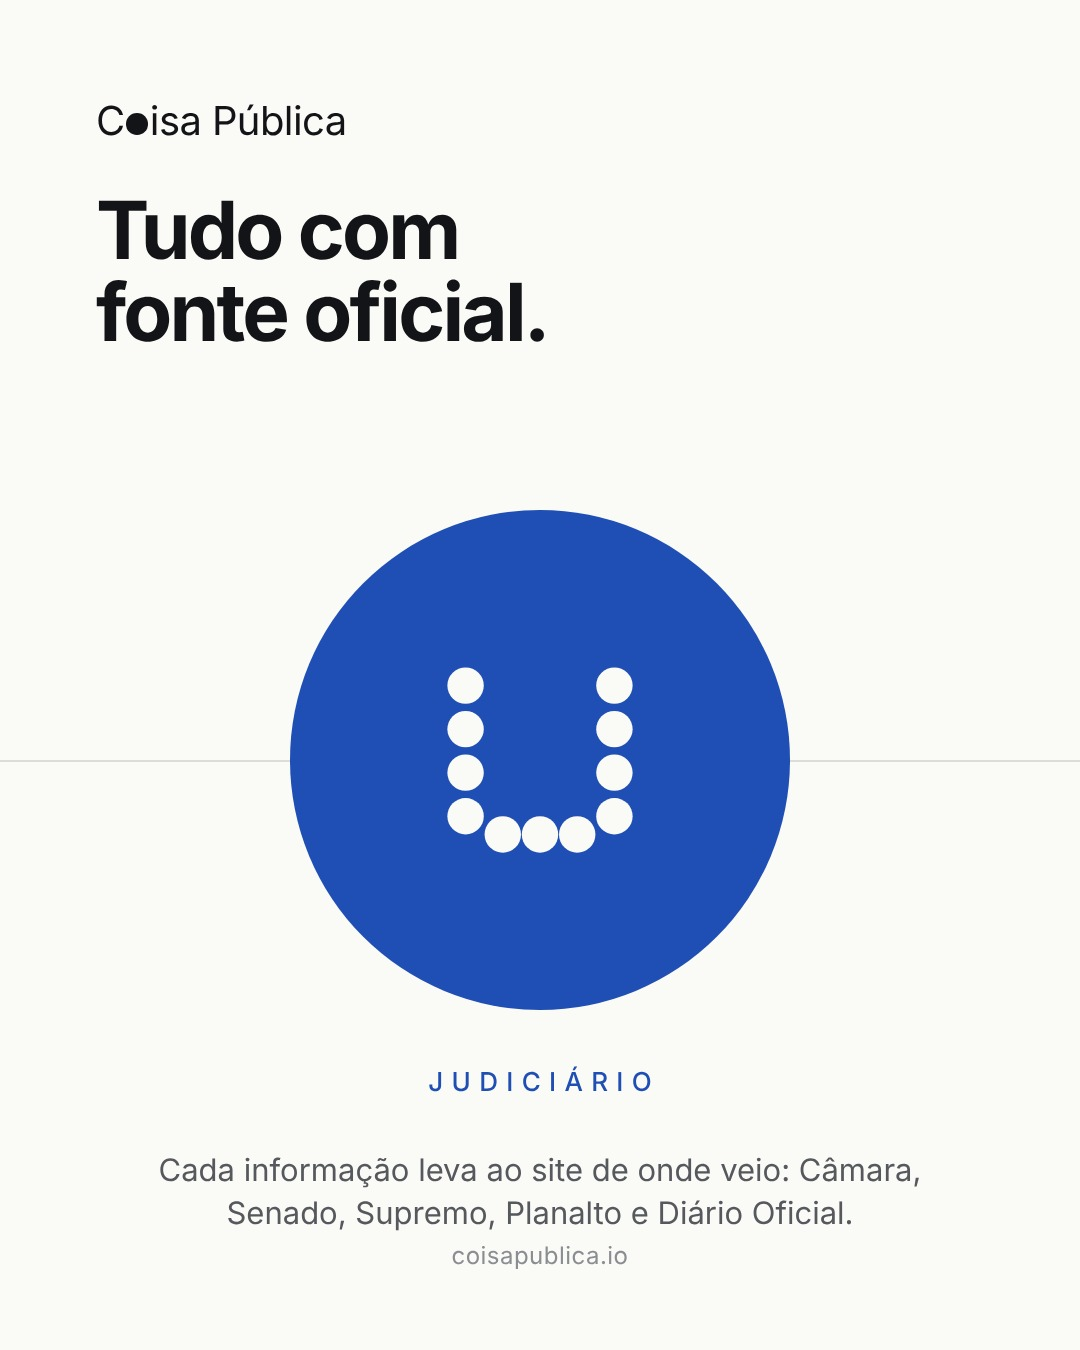
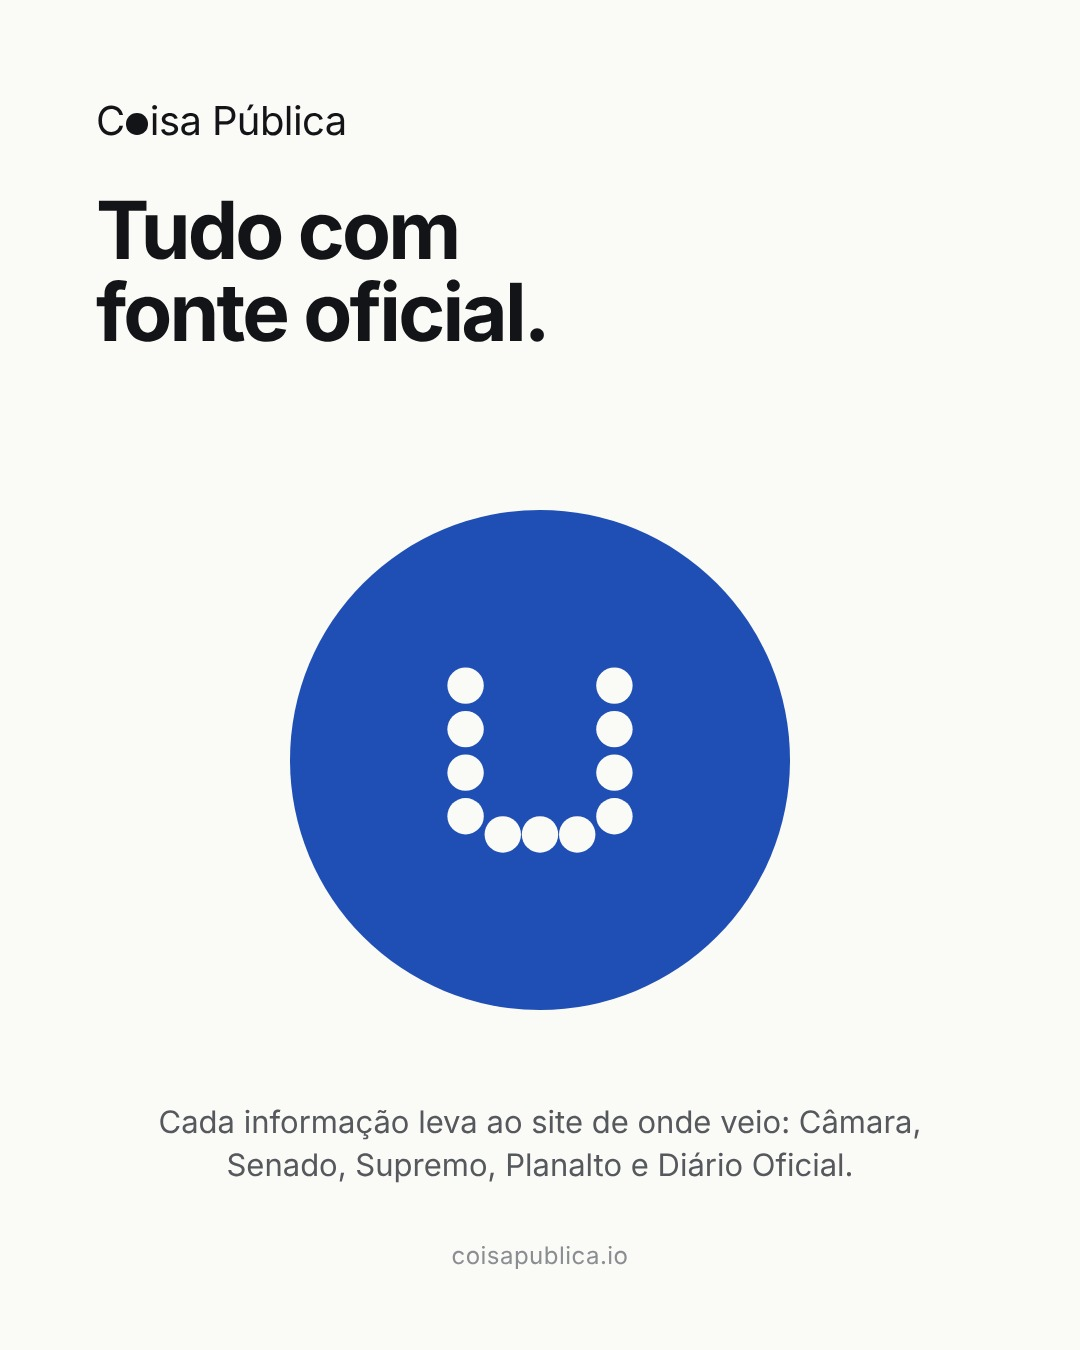
Apresentação: sem os nomes dos poderes e sem a linha; pontos do Legislativo à mesma distância
Claude-Session: https://claude.ai/code/session_01LhzKyHvExJb3TPhqkvRYrY

Changed region(s): [[0.1528, 0.7778, 0.8556, 0.9022]]

diff --git a/scripts/posts/apresentacao.js b/scripts/posts/apresentacao.js
@@ -1,6 +1,6 @@
 /* Gera as três imagens de apresentação (1080x1350), pensadas para ficarem lado a lado na grade do perfil:
    Executivo (verde) à esquerda, Legislativo (amarelo) no meio e Judiciário (azul) à direita, com os três círculos
-   na mesma altura e uma linha fina que atravessa as três imagens.
+   na mesma altura.
    A ordem de publicação é a inversa da grade (o post mais novo fica à esquerda): apresentacao-1 (direita) sai primeiro.
    Uso: node scripts/posts/apresentacao.js   (grava posts/<data>-apresentacao-N/imagem.jpg para as pastas que existirem) */
 const {chromium} = require('playwright');
@@ -11,23 +11,21 @@ const C = {exe:'#009C3B', leg:'#F2C200', jud:'#1F4FB5'};
 // os símbolos dos poderes do site, desenhados em branco dentro de cada círculo
 const G = {
   exe:'<svg viewBox="0 0 12 12" width="120"><circle cx="6" cy="6" r="3.7"/></svg>',
-  leg:'<svg viewBox="0 0 20 12" width="250"><circle cx="5.40" cy="10.20" r="1.5"/><circle cx="7.70" cy="6.22" r="1.5"/><circle cx="12.30" cy="6.22" r="1.5"/><circle cx="14.60" cy="10.20" r="1.5"/><circle cx="1.40" cy="10.20" r="1.5"/><circle cx="2.55" cy="5.90" r="1.5"/><circle cx="5.70" cy="2.75" r="1.5"/><circle cx="10.00" cy="1.60" r="1.5"/><circle cx="14.30" cy="2.75" r="1.5"/><circle cx="17.45" cy="5.90" r="1.5"/><circle cx="18.60" cy="10.20" r="1.5"/></svg>',
+  leg:'<svg viewBox="0 0 20.20 11.60" width="260"><circle cx="1.50" cy="10.10" r="1.5"/><circle cx="2.65" cy="5.80" r="1.5"/><circle cx="5.80" cy="2.65" r="1.5"/><circle cx="10.10" cy="1.50" r="1.5"/><circle cx="14.40" cy="2.65" r="1.5"/><circle cx="17.55" cy="5.80" r="1.5"/><circle cx="18.70" cy="10.10" r="1.5"/><circle cx="5.90" cy="10.10" r="1.5"/><circle cx="8.00" cy="6.46" r="1.5"/><circle cx="12.20" cy="6.46" r="1.5"/><circle cx="14.30" cy="10.10" r="1.5"/></svg>',
   jud:'<svg viewBox="0 0 12 12" width="190"><circle cx="1.3" cy="1.30" r="1.15"/><circle cx="1.3" cy="4.05" r="1.15"/><circle cx="1.3" cy="6.80" r="1.15"/><circle cx="1.3" cy="9.55" r="1.15"/><circle cx="10.7" cy="1.30" r="1.15"/><circle cx="10.7" cy="4.05" r="1.15"/><circle cx="10.7" cy="6.80" r="1.15"/><circle cx="10.7" cy="9.55" r="1.15"/><circle cx="3.65" cy="10.70" r="1.15"/><circle cx="6" cy="10.70" r="1.15"/><circle cx="8.35" cy="10.70" r="1.15"/></svg>'
 };
 const CSS = `
 *{box-sizing:border-box}html,body{margin:0}
 body{width:1080px;height:1350px;background:#FAFAF7;color:#121417;font-family:"Helvetica Neue",Helvetica,Arial,sans-serif;position:relative;overflow:hidden}
-.line{position:absolute;left:0;right:0;top:760px;height:2px;background:#DCDDD8}
 .sph{position:absolute;left:290px;top:510px;width:500px;height:500px;border-radius:50%;display:grid;place-items:center}
 .sph svg{fill:#FAFAF7}
-.pw{position:absolute;left:0;right:0;top:1040px;text-align:center;font-size:26px;letter-spacing:.32em;text-transform:uppercase;font-weight:500;padding-left:.32em}
 .top{position:absolute;left:96px;right:96px;top:96px}
 .logo{font-size:40px;letter-spacing:-.015em}
 .logo i{display:inline-block;width:.54em;height:.54em;border-radius:50%;background:#121417;margin:0 .045em}
 h1{margin:44px 0 0;font-size:80px;line-height:1.02;letter-spacing:-.035em;font-weight:700}
 .big{font-size:118px;letter-spacing:-.03em;font-weight:400;margin:28px 0 0;line-height:1}
 .big i{display:inline-block;width:.54em;height:.54em;border-radius:50%;background:#009C3B;margin:0 .045em}
-.txt{position:absolute;left:96px;right:96px;top:1118px;font-size:31px;line-height:1.38;color:#55585D;text-align:center}
+.txt{position:absolute;left:96px;right:96px;top:1070px;font-size:31px;line-height:1.38;color:#55585D;text-align:center}
 .url{position:absolute;left:0;right:0;bottom:56px;text-align:center;font-size:24px;color:#8A8D91;letter-spacing:.02em}`;
 const PAGES = {
   // direita da grade: sai primeiro
@@ -41,8 +39,7 @@ const PAGES = {
      txt:'Pautas, votações e gastos do Congresso, do Supremo e da Presidência, em linguagem simples.', semLogo:true}
 };
 const html = P => `<!doctype html><html><head><meta charset="utf-8"><style>${CSS}</style></head><body>
-  <div class="line"></div><div class="sph" style="background:${C[P.k]}">${G[P.k]}</div>
-  <p class="pw" style="color:${C[P.k]}">${P.nome}</p>
+  <div class="sph" style="background:${C[P.k]}">${G[P.k]}</div>
   <div class="top">${P.semLogo ? '' : '<div class="logo">C<i></i>isa Pública</div>'}${P.topo}</div>
   <p class="txt">${P.txt}</p><p class="url">coisapublica.io</p></body></html>`;
 

diff --git a/posts/LEIA.md b/posts/LEIA.md
@@ -49,4 +49,4 @@ Segredos do GitHub (Settings > Secrets and variables > Actions): `BLUESKY_HANDLE
 
 ## Posts de apresentação
 
-`posts/AAAA-MM-DD-apresentacao-1`, `-2` e `-3`: três posts que, lado a lado na grade do perfil, formam uma peça só (Executivo verde à esquerda, Legislativo amarelo no meio, Judiciário azul à direita, com os círculos na mesma altura e uma linha que atravessa as três). As imagens saem de `node scripts/posts/apresentacao.js`. Como o post mais novo aparece à esquerda, o `-1` (Judiciário, direita) sai primeiro e o `-3` (Executivo, esquerda) por último; o robô publica as pastas em ordem alfabética. Para a grade continuar alinhada depois, os posts do dia devem sair sempre de três em três.
+`posts/AAAA-MM-DD-apresentacao-1`, `-2` e `-3`: três posts que, lado a lado na grade do perfil, formam uma peça só (Executivo verde à esquerda, Legislativo amarelo no meio, Judiciário azul à direita, com os círculos na mesma altura). As imagens saem de `node scripts/posts/apresentacao.js`. Como o post mais novo aparece à esquerda, o `-1` (Judiciário, direita) sai primeiro e o `-3` (Executivo, esquerda) por último; o robô publica as pastas em ordem alfabética. Para a grade continuar alinhada depois, os posts do dia devem sair sempre de três em três.
